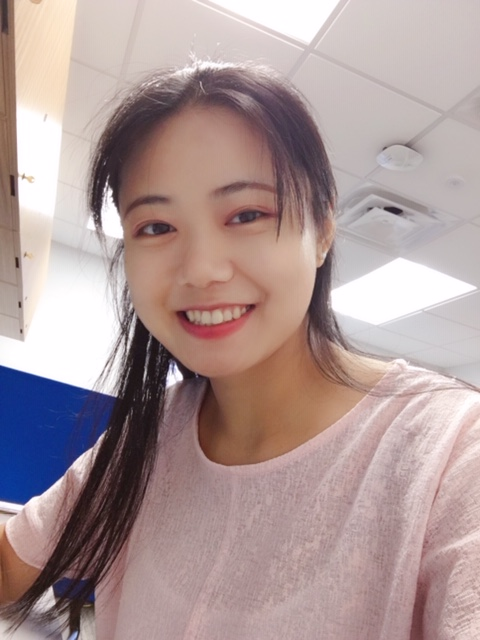
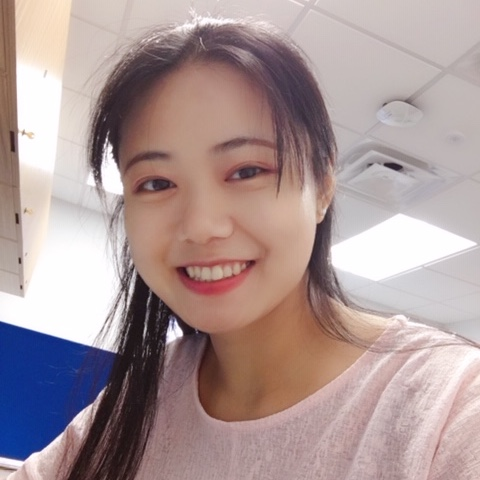
Square pics only

diff --git a/vortex-magenta/team.html b/vortex-magenta/team.html
@@ -52,7 +52,7 @@
 				<img src="images/banner.jpg" alt="" />
 			</div>
 			<div class="content">
-				<h4>Pathology Picture Goes Here</h1>
+				<h4>Square Pics only. Remove Unnecessary Links.</h1>
 			</div>
 		</section>
 
@@ -61,136 +61,152 @@
 			<div class="inner">
 				<div class="posts">
 					<article>
-						<a href="#" class="image filtered"><img src="images/team/monjoy.jpg" alt=""</a>
-						<p><strong>Monjoy Saha, PhD</strong> [PostDoc]<br>
+						<a href="#" class="image filtered"><img src="images/team/monjoy.jpg" alt="" </a>
+								<p><strong>Monjoy Saha, PhD</strong> [PostDoc]<br>
 							Deep Learning; Cancer and Medical Imaging; Digital Pathology</p>
-						<ul class="icons">
-							<li><a href="#" class="icon alt fa-linkedin"><span class="label">LinkedIn</span></a></li>
-							<li><a href="#" class="icon alt fa-github"><span class="label">Github</span></a></li>
-							<li><a href="#" class="icon alt fa-at"><span class="label">email</span></a></li>
-							<li><a href="#" class="icon alt fa-link"><span class="label">website</span></a></li>
-						</ul>
+							<ul class="icons">
+								<li><a href="#" class="icon alt fa-linkedin"><span class="label">LinkedIn</span></a>
+								</li>
+								<li><a href="#" class="icon alt fa-github"><span class="label">Github</span></a></li>
+								<li><a href="#" class="icon alt fa-at"><span class="label">email</span></a></li>
+								<li><a href="#" class="icon alt fa-link"><span class="label">website</span></a></li>
+							</ul>
 					</article>
 					<article>
-						<a href="#" class="image filtered"><img src="images/team/pradeeban.jpg" alt=""</a>
-						<p><strong>Pradeeban Kathiravelu, PhD</strong> [PostDoc]<br>
+						<a href="#" class="image filtered"><img src="images/team/pradeeban.jpg" alt="" </a>
+								<p><strong>Pradeeban Kathiravelu, PhD</strong> [PostDoc]<br>
 							Distributed Computing; Real-time Data Analytics; Data Integration</p>
-						<ul class="icons">
-								<li><a href="#" class="icon alt fa-linkedin"><span class="label">LinkedIn</span></a></li>
+							<ul class="icons">
+								<li><a href="#" class="icon alt fa-linkedin"><span class="label">LinkedIn</span></a>
+								</li>
 								<li><a href="#" class="icon alt fa-github"><span class="label">Github</span></a></li>
-							<li><a href="#" class="icon alt fa-at"><span class="label">email</span></a></li>
-							<li><a href="#" class="icon alt fa-link"><span class="label">website</span></a></li>
-						</ul>
+								<li><a href="#" class="icon alt fa-at"><span class="label">email</span></a></li>
+								<li><a href="#" class="icon alt fa-link"><span class="label">website</span></a></li>
+							</ul>
 					</article>
 					<article>
-						<a href="#" class="image filtered"><img src="images/team/annie.jpg" alt=""</a>
-						<p><strong>Ping (Annie) Gu</strong> [Sr. Sys. Engg]<br>
+						<a href="#" class="image filtered"><img src="images/team/annie.jpg" alt="" </a> <p><strong>Ping
+								(Annie) Gu</strong> [Sr. Sys. Engg]<br>
 							Cloud Computing; Data Fusion and Integration.</p>
-						<ul class="icons">
-								<li><a href="#" class="icon alt fa-linkedin"><span class="label">LinkedIn</span></a></li>
+							<ul class="icons">
+								<li><a href="#" class="icon alt fa-linkedin"><span class="label">LinkedIn</span></a>
+								</li>
 								<li><a href="#" class="icon alt fa-github"><span class="label">Github</span></a></li>
-							<li><a href="#" class="icon alt fa-at"><span class="label">email</span></a></li>
-							<li><a href="#" class="icon alt fa-link"><span class="label">website</span></a></li>
-						</ul>
+								<li><a href="#" class="icon alt fa-at"><span class="label">email</span></a></li>
+								<li><a href="#" class="icon alt fa-link"><span class="label">website</span></a></li>
+							</ul>
 					</article>
 					<article>
-						<a href="#" class="image filtered"><img src="images/team/birm.png" alt="Ryan Brmingham on Zugspitze"</a>
-						<p><strong>Ryan Birmingham</strong> [Sys. Engg.]<br>
+						<a href="#" class="image filtered"><img src="images/team/birm.png"
+								alt="Ryan Brmingham on Zugspitze" </a> <p><strong>Ryan Birmingham</strong> [Sys.
+							Engg.]<br>
 							Digital Pathology; QuIP; SEER VTR; Data Integration</p>
-						<ul class="icons">
-								<li><a href="https://www.linkedin.com/in/ryan-birmingham-825443122/" class="icon alt fa-linkedin"><span class="label">LinkedIn</span></a></li>
-								<li><a href="https://github.com/birm/" class="icon alt fa-github"><span class="label">Github</span></a></li>
-							<li><a href="mailto://birm@rbirm.com" class="icon alt fa-at"><span class="label">email</span></a></li>
-							<li><a href="http://rbirm.us" class="icon alt fa-link"><span class="label">website</span></a></li>
-						</ul>
+							<ul class="icons">
+								<li><a href="https://www.linkedin.com/in/ryan-birmingham-825443122/"
+										class="icon alt fa-linkedin"><span class="label">LinkedIn</span></a></li>
+								<li><a href="https://github.com/birm/" class="icon alt fa-github"><span
+											class="label">Github</span></a></li>
+								<li><a href="mailto://birm@rbirm.com" class="icon alt fa-at"><span
+											class="label">email</span></a></li>
+								<li><a href="http://rbirm.us" class="icon alt fa-link"><span
+											class="label">website</span></a></li>
+							</ul>
 					</article>
 					<article>
-						<a href="#" class="image filtered"><img src="images/team/nan.jpg" alt=""</a>
-						<p><strong>Nan Li</strong> [Sys. Engg.]<br>
+						<a href="#" class="image filtered"><img src="images/team/nan.jpg" alt="" </a> <p><strong>Nan
+								Li</strong> [Sys. Engg.]<br>
 							Digital Pathology; caMicroscope; Information Visualization.</p>
-						<ul class="icons">
-								<li><a href="#" class="icon alt fa-linkedin"><span class="label">LinkedIn</span></a></li>
+							<ul class="icons">
+								<li><a href="#" class="icon alt fa-linkedin"><span class="label">LinkedIn</span></a>
+								</li>
 								<li><a href="#" class="icon alt fa-github"><span class="label">Github</span></a></li>
-							<li><a href="#" class="icon alt fa-at"><span class="label">email</span></a></li>
-							<li><a href="#" class="icon alt fa-link"><span class="label">website</span></a></li>
-						</ul>
+								<li><a href="#" class="icon alt fa-at"><span class="label">email</span></a></li>
+								<li><a href="#" class="icon alt fa-link"><span class="label">website</span></a></li>
+							</ul>
 					</article>
 					<article>
-						<a href="#" class="image filtered"><img src="images/team/priya.jpg" alt=""</a>
-						<p><strong>Mohanapriya Narapareddy</strong> [Sys. Engg.]<br>
+						<a href="#" class="image filtered"><img src="images/team/priya.jpg" alt="" </a>
+								<p><strong>Mohanapriya Narapareddy</strong> [Sys. Engg.]<br>
 							Data Integration; Reproducible Science
-						</p>
-						<ul class="icons">
-								<li><a href="#" class="icon alt fa-linkedin"><span class="label">LinkedIn</span></a></li>
+							</p>
+							<ul class="icons">
+								<li><a href="#" class="icon alt fa-linkedin"><span class="label">LinkedIn</span></a>
+								</li>
 								<li><a href="#" class="icon alt fa-github"><span class="label">Github</span></a></li>
-							<li><a href="#" class="icon alt fa-at"><span class="label">email</span></a></li>
-							<li><a href="#" class="icon alt fa-link"><span class="label">website</span></a></li>
-						</ul>
+								<li><a href="#" class="icon alt fa-at"><span class="label">email</span></a></li>
+								<li><a href="#" class="icon alt fa-link"><span class="label">website</span></a></li>
+							</ul>
 					</article>
 					<article>
-						<a href="#" class="image filtered"><img src="images/team/whitney.jpg" alt=""</a>
-						<p><strong>Whitney Hogg</strong> [Sys. Engg., PM]<br>
+						<a href="#" class="image filtered"><img src="images/team/whitney.jpg" alt="" </a>
+								<p><strong>Whitney Hogg</strong> [Sys. Engg., PM]<br>
 							Real-time analytics; Digital Pathology.</p>
-						<ul class="icons">
-								<li><a href="#" class="icon alt fa-linkedin"><span class="label">LinkedIn</span></a></li>
+							<ul class="icons">
+								<li><a href="#" class="icon alt fa-linkedin"><span class="label">LinkedIn</span></a>
+								</li>
 								<li><a href="#" class="icon alt fa-github"><span class="label">Github</span></a></li>
-							<li><a href="#" class="icon alt fa-at"><span class="label">email</span></a></li>
-							<li><a href="#" class="icon alt fa-link"><span class="label">website</span></a></li>
-						</ul>
+								<li><a href="#" class="icon alt fa-at"><span class="label">email</span></a></li>
+								<li><a href="#" class="icon alt fa-link"><span class="label">website</span></a></li>
+							</ul>
 					</article>
 					<article>
-						<a href="#" class="image filtered"><img src="images/team/sapoon.jpg" alt=""</a>
-						<p><strong>Sapoon Dutta</strong> [PhD Student]<br>
+						<a href="#" class="image filtered"><img src="images/team/sapoon.jpg" alt="" </a>
+								<p><strong>Sapoon Dutta</strong> [PhD Student]<br>
 							Information Visualization</p>
-						<ul class="icons">
-								<li><a href="#" class="icon alt fa-linkedin"><span class="label">LinkedIn</span></a></li>
+							<ul class="icons">
+								<li><a href="#" class="icon alt fa-linkedin"><span class="label">LinkedIn</span></a>
+								</li>
 								<li><a href="#" class="icon alt fa-github"><span class="label">Github</span></a></li>
-							<li><a href="#" class="icon alt fa-at"><span class="label">email</span></a></li>
-							<li><a href="#" class="icon alt fa-link"><span class="label">website</span></a></li>
-						</ul>
+								<li><a href="#" class="icon alt fa-at"><span class="label">email</span></a></li>
+								<li><a href="#" class="icon alt fa-link"><span class="label">website</span></a></li>
+							</ul>
 					</article>
 					<article>
-						<a href="#" class="image filtered"><img src="images/team/xiaoyuan.jpg" alt="" alt=""</a>
-						<p><strong>Xiaoyuan Guo</strong> [PhD Student]<br>
+						<a href="#" class="image filtered"><img src="images/team/xiaoyuan.jpg" alt="" alt="" </a>
+								<p><strong>Xiaoyuan Guo</strong> [PhD Student]<br>
 							Deep Learning; Digital Pathology; Radiomics.</p>
-						<ul class="icons">
-								<li><a href="https://www.linkedin.com/in/xiaoyuan-guo-029252142/" class="icon alt fa-linkedin"><span class="label">LinkedIn</span></a></li>
-								<li><a href="https://github.com/XiaoyuanGuo" class="icon alt fa-github"><span class="label">Github</span></a></li>
-							<li><a href="#" class="icon alt fa-at"><span class="label">email</span></a></li>
-							<li><a href="#" class="icon alt fa-link"><span class="label">website</span></a></li>
-						</ul>
+							<ul class="icons">
+								<li><a href="https://www.linkedin.com/in/xiaoyuan-guo-029252142/"
+										class="icon alt fa-linkedin"><span class="label">LinkedIn</span></a></li>
+								<li><a href="https://github.com/XiaoyuanGuo" class="icon alt fa-github"><span
+											class="label">Github</span></a></li>
+							</ul>
 					</article>
 					<article>
-						<a href="#" class="image filtered"><img src="images/team/ramon.jpg" alt=""</a>
-						<p><strong>Ramon Correa</strong> [PhD Student]<br>
+						<a href="#" class="image filtered"><img src="images/team/ramon.jpg" alt="" </a> <p><strong>Ramon
+								Correa</strong> [PhD Student]<br>
 							Deep Learning; Pathomics; Radiomics.</p>
-						<ul class="icons">
-								<li><a href="#" class="icon alt fa-linkedin"><span class="label">LinkedIn</span></a></li>
+							<ul class="icons">
+								<li><a href="#" class="icon alt fa-linkedin"><span class="label">LinkedIn</span></a>
+								</li>
 								<li><a href="#" class="icon alt fa-github"><span class="label">Github</span></a></li>
-							<li><a href="xiaoyuan.guo@emory.edu" class="icon alt fa-at"><span class="label">email</span></a></li>
-							<li><a href="https://xiaoyuanguo.github.io/academics/" class="icon alt fa-link"><span class="label">website</span></a></li>
-						</ul>
+								<li><a href="xiaoyuan.guo@emory.edu" class="icon alt fa-at"><span
+											class="label">email</span></a></li>
+								<li><a href="https://xiaoyuanguo.github.io/academics/" class="icon alt fa-link"><span
+											class="label">website</span></a></li>
+							</ul>
 					</article>
 				</div>
 			</div>
 		</section>
 		<section class="main style1">
-				<div class="inner">
-					<h3>Alumni</h3>
-					<div class="posts">
-						<article>
-							<a href="#" class="image filtered"><img src="images/pic01.jpg" alt=""</a>
-							<p><strong>Ameen Kazerouni, MS</strong><br>
-								TITLE</p>
+			<div class="inner">
+				<h3>Alumni</h3>
+				<div class="posts">
+					<article>
+						<a href="#" class="image filtered"><img src="images/pic01.jpg" alt="" </a> <p><strong>Ameen
+								Kazerouni, MS</strong><br>
+							TITLE</p>
 							<ul class="icons">
-									<li><a href="#" class="icon alt fa-linkedin"><span class="label">LinkedIn</span></a></li>
-									<li><a href="#" class="icon alt fa-github"><span class="label">Github</span></a></li>
+								<li><a href="#" class="icon alt fa-linkedin"><span class="label">LinkedIn</span></a>
+								</li>
+								<li><a href="#" class="icon alt fa-github"><span class="label">Github</span></a></li>
 								<li><a href="#" class="icon alt fa-at"><span class="label">email</span></a></li>
 								<li><a href="#" class="icon alt fa-link"><span class="label">website</span></a></li>
 							</ul>
-						</article>
-					</div>
+					</article>
 				</div>
+			</div>
 		</section>
 
 	</div>
